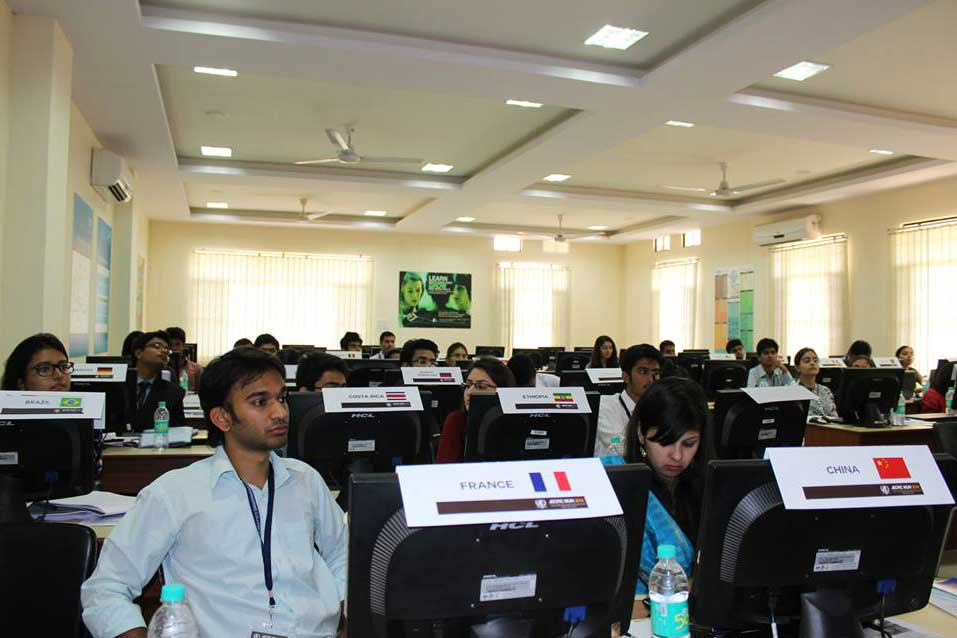
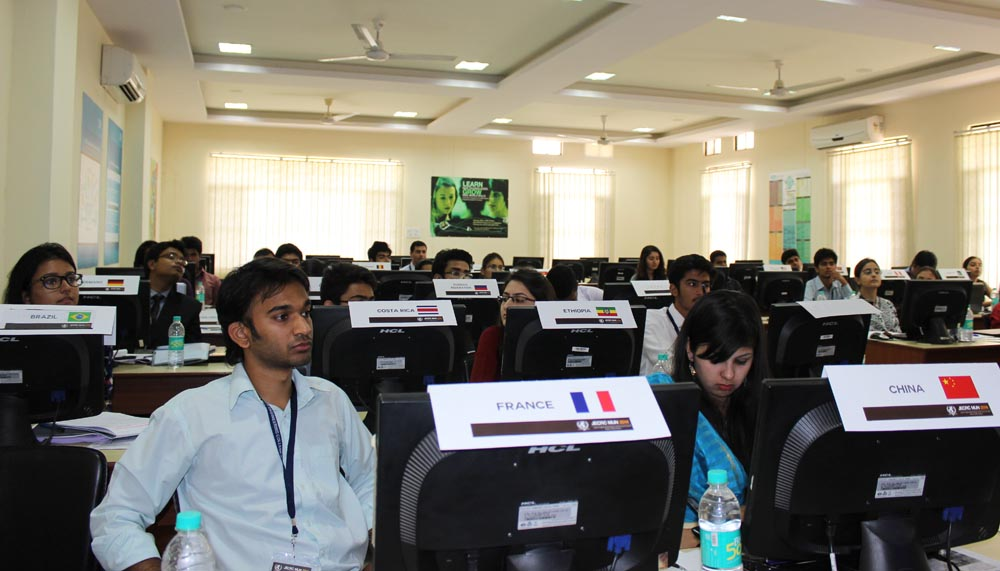
blurry images replaced with hq

diff --git a/index.html b/index.html
@@ -464,28 +464,28 @@
             $('.flytoLeft').waypoint(function() {
                 $(this).addClass('animated slideInLeft');
             }, {
-                offset: '60%'
+                offset: '80%'
             });
             $('.flytoRight').waypoint(function() {
                 $(this).addClass('animated slideInRight');
             }, {
-                offset: '60%'
+                offset: '80%'
             });
 
             $('.flytoTop').waypoint(function() {
                 $(this).addClass('animated fadeInDown');
             }, {
-                offset: '60%'
+                offset: '80%'
             });
             $('.fadetoLeft').waypoint(function() {
                 $(this).addClass('animated fadeInLeft');
             }, {
-                offset: '60%'
+                offset: '80%'
             });
             $('.fadetoRight').waypoint(function() {
                 $(this).addClass('animated fadeInRight');
             }, {
-                offset: '60%'
+                offset: '75%'
             });
             $('.shakeButton').waypoint(function() {
                 $(this).addClass('animated tada');

diff --git a/css/customize.css b/css/customize.css
@@ -134,7 +134,7 @@ header .container{
         background: url('../img/main2.jpg') bottom right no-repeat;
     }
     #slide2,#slide3{
-        background-size: 100%;
+        background-size: 100% auto;
     }
     #slide1 {
         background-size:auto 98%;
